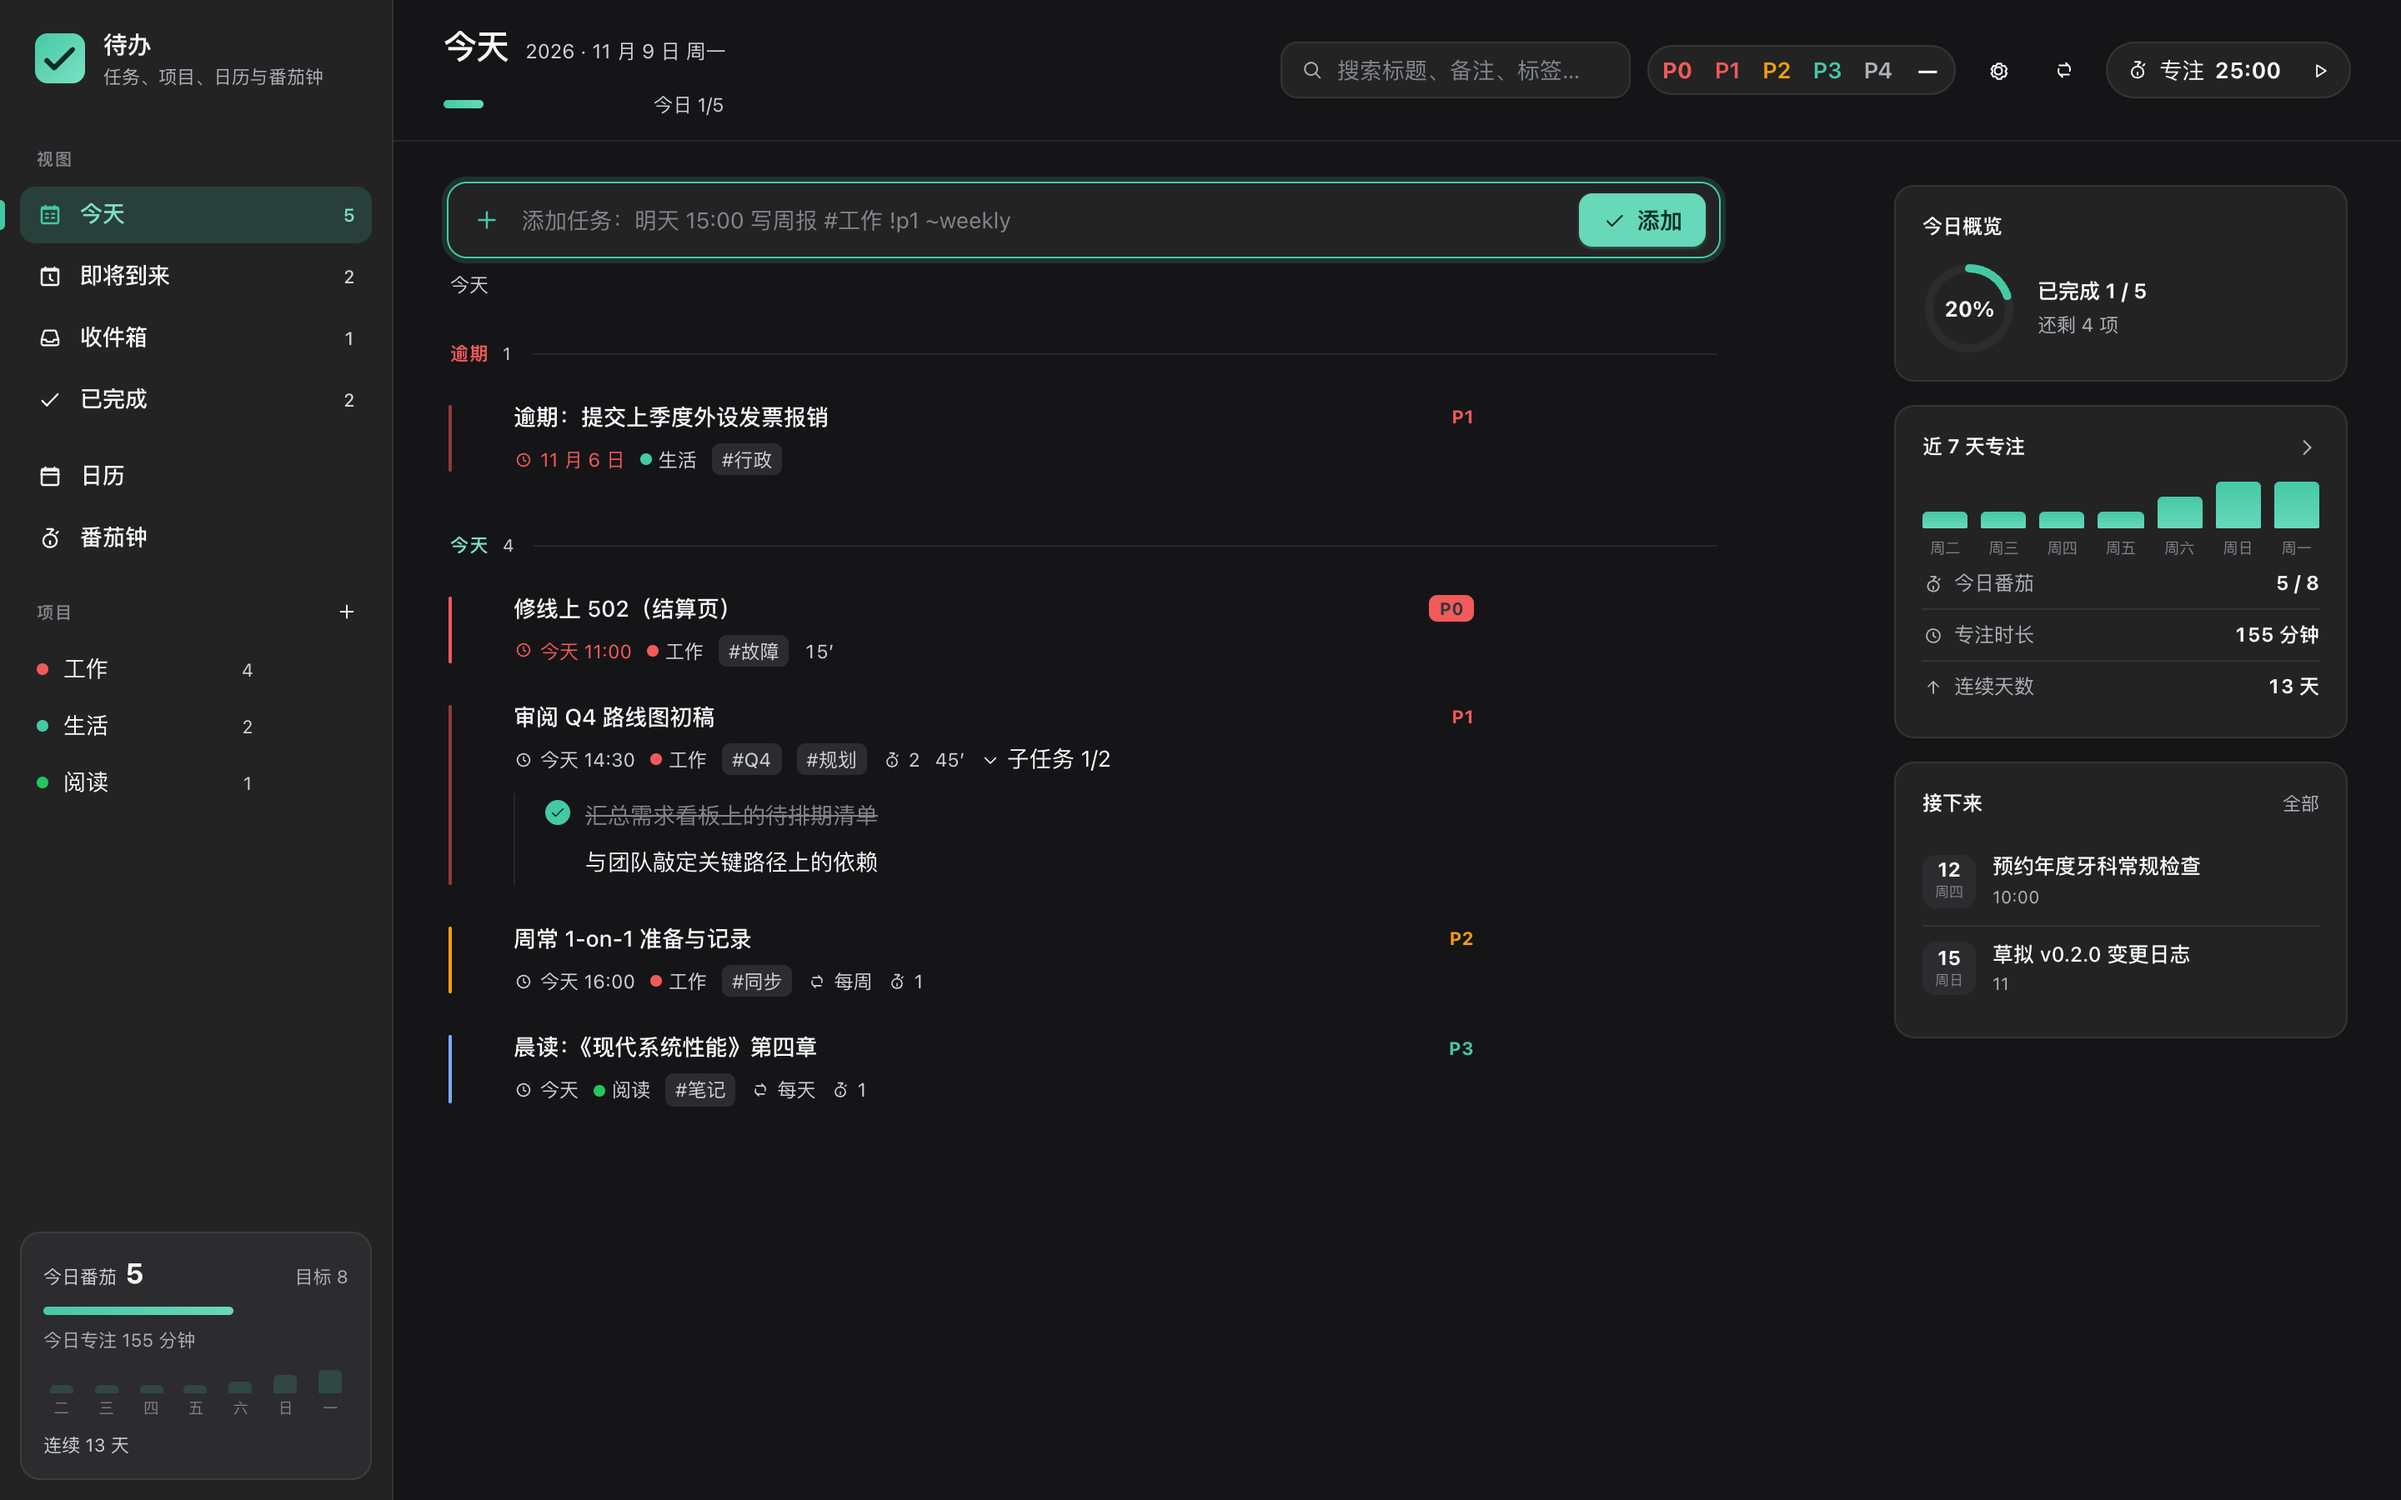
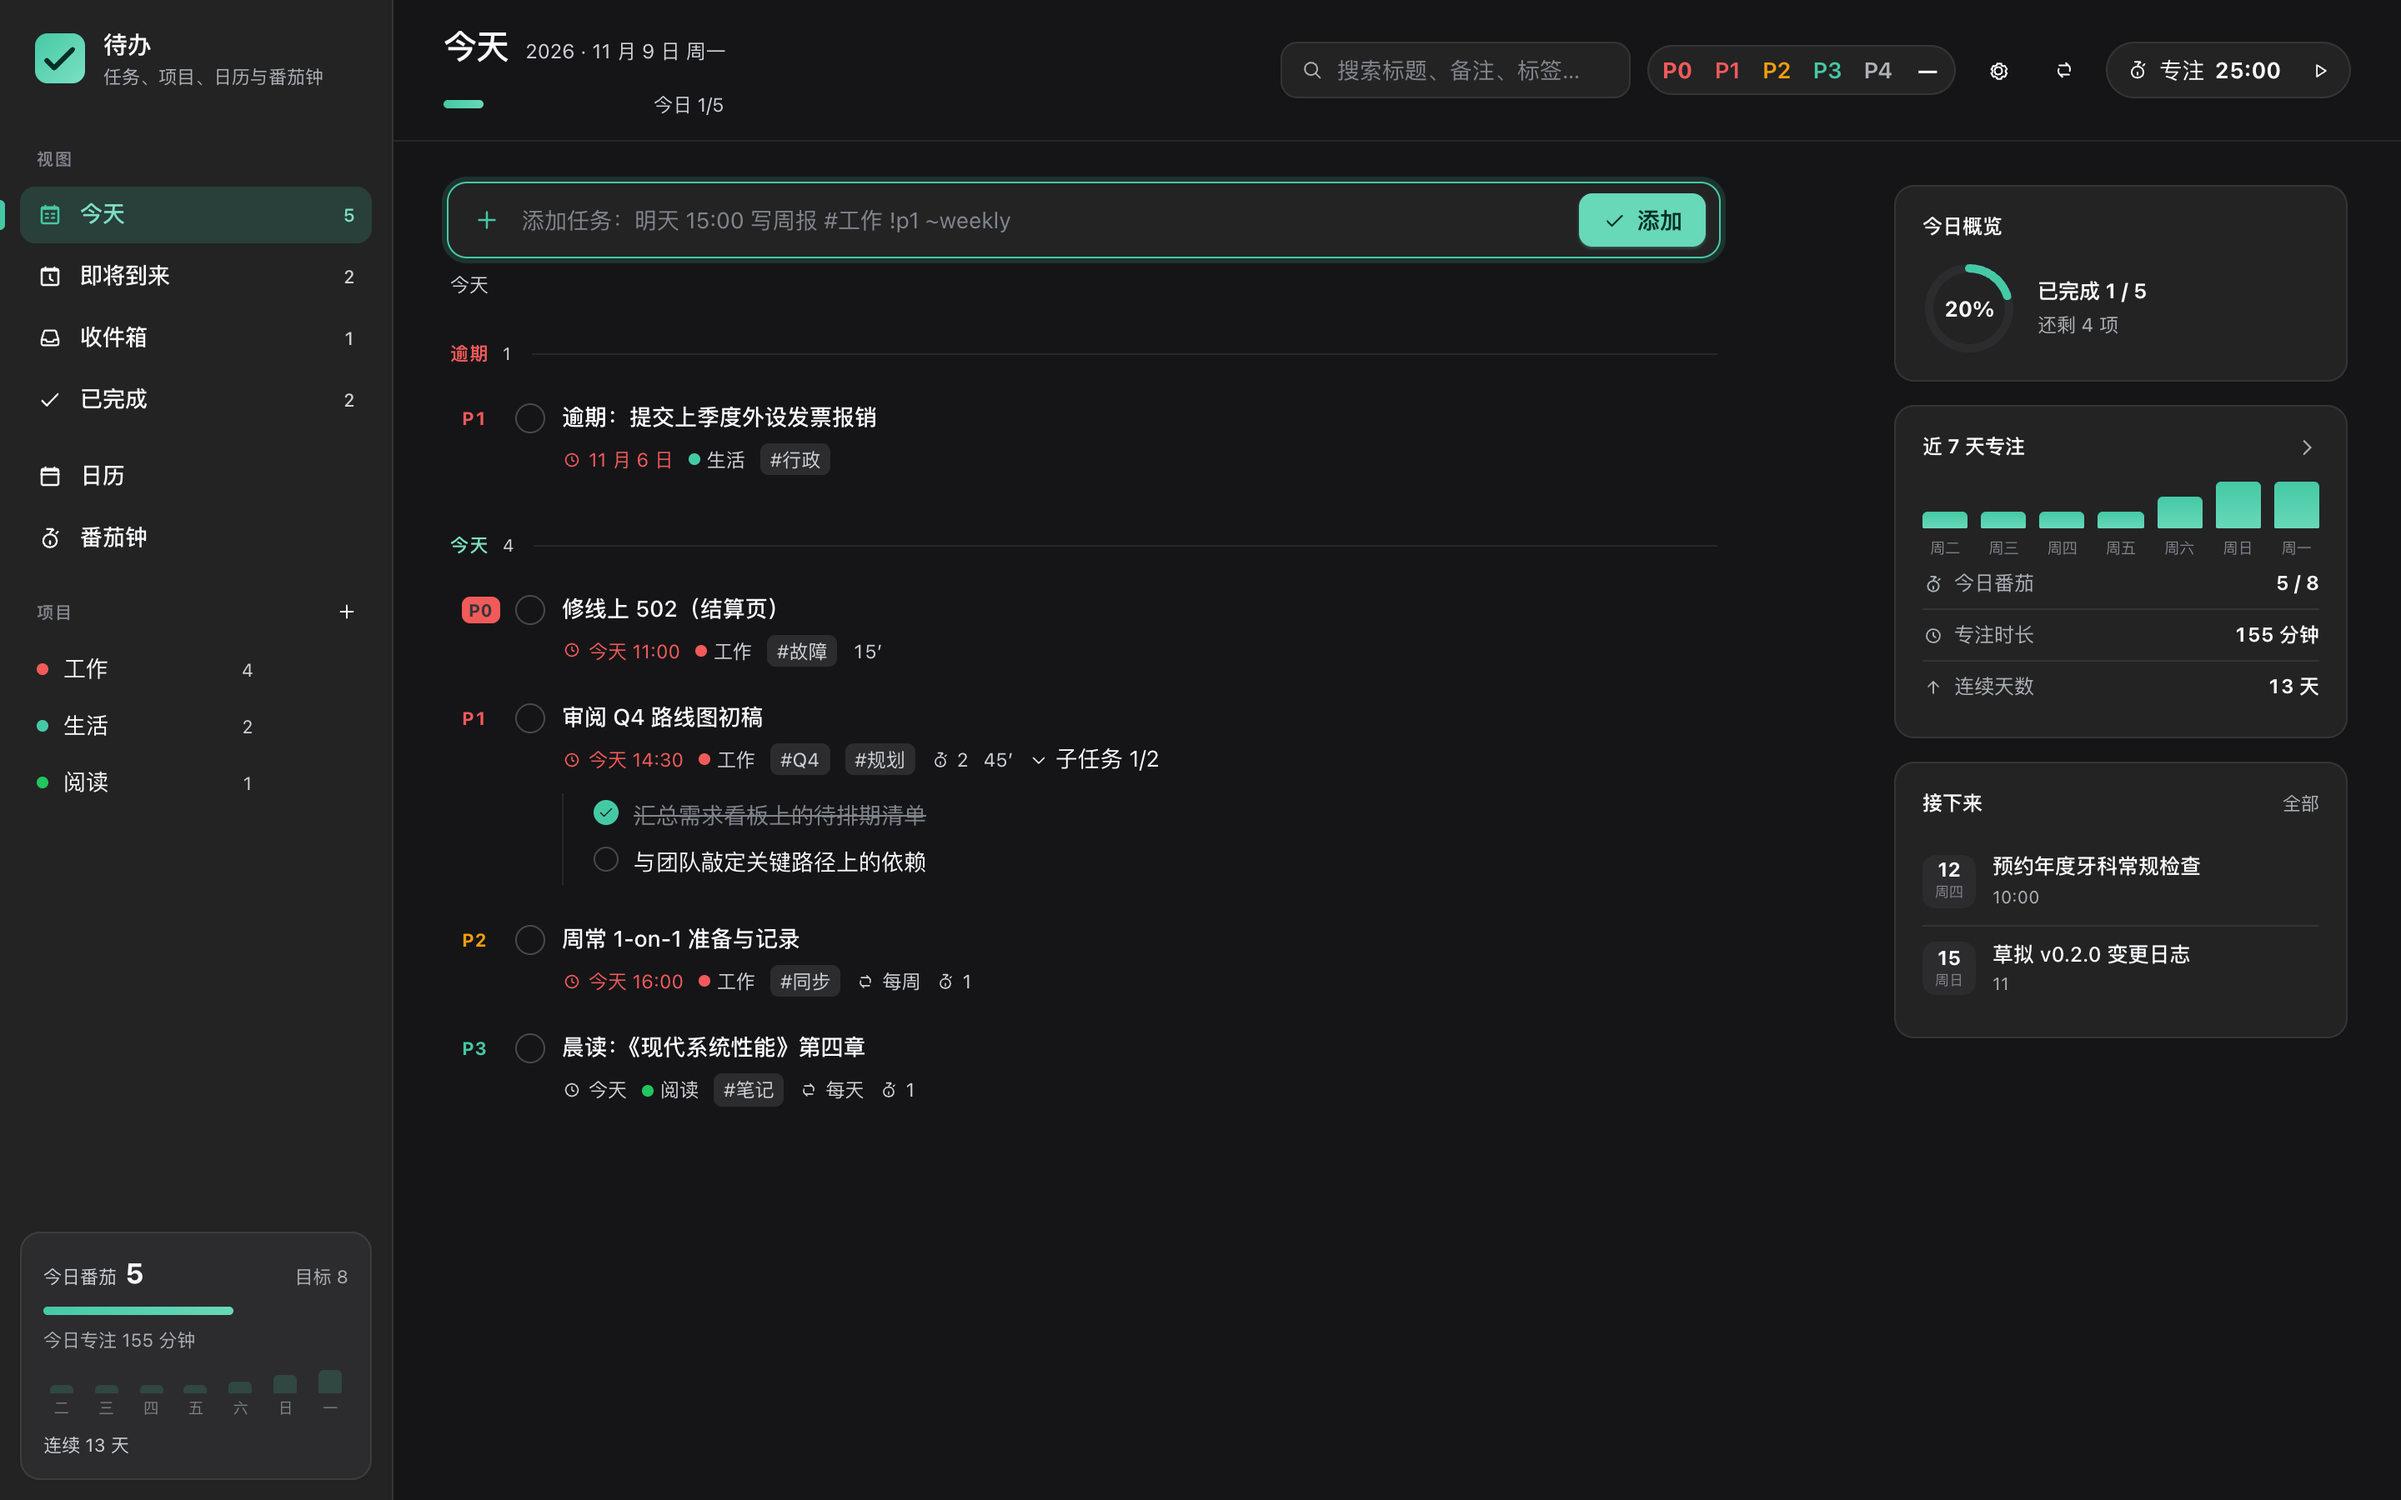
feat: move priority labels into a leading row column
- PriorityFlag replaces PriorityBar: P0 pill and P1-P4 text live in a fixed
  22px column before the checkbox; empty column keeps titles aligned
- drop the 2px priority bar and the right-aligned P label in the title line
- tabular-nums label with 4px P0 padding; row padding-left 8px, gap 10px
- add missing --dsw-alias-border-l3 tokens to the preview host styles so the
  checkbox ring renders in headless screenshots
- cover the new layout in client-i18n tests; regenerate screenshots; bump 0.2.19

diff --git a/lib/client.js b/lib/client.js
@@ -2625,14 +2625,20 @@ window.__ModuleLoader__.load({
       }, []);
     }
 
-    function PriorityBar(props) {
+    /** 左栏优先级列：与复选框同一列的固定 22px 槽，P0 用实心胶囊，P1–P4 用彩色文字。 */
+    function PriorityFlag(props) {
       const priority = props.priority;
-      if (priority === PRIORITY_NONE || priority === null || priority === undefined) return null;
-      return h("span", {
-        className: `todo-priority-bar todo-priority-p${priority}`,
-        "aria-hidden": "true",
-        title: t("task.priority", { n: priority }),
-      });
+      if (priority === PRIORITY_NONE || priority === null || priority === undefined) {
+        return h("span", { className: "todo-priority-col", "aria-hidden": "true" });
+      }
+      return h(
+        "span",
+        { className: "todo-priority-col" },
+        h("span", {
+          className: `todo-priority-label todo-priority-p${priority}`,
+          title: t("task.priority", { n: priority }),
+        }, `P${priority}`),
+      );
     }
 
     function ProjectDot(props) {
@@ -2774,7 +2780,6 @@ window.__ModuleLoader__.load({
       const project = projectOf(task, projects);
       const overdue = !task.done && isOverdue(task.due, today);
       const priority = priorityOf(task);
-      const hasPriority = priority !== PRIORITY_NONE;
       const pinned = task.id === ui.focusedTaskId;
 
       const meta = [];
@@ -2862,7 +2867,7 @@ window.__ModuleLoader__.load({
       return h(
         "li",
         { className: `todo-item${task.done ? " is-done" : ""}${pinned ? " is-focused" : ""}${completing ? " is-completing" : ""}` },
-        h(PriorityBar, { priority }),
+        h(PriorityFlag, { priority }),
         h("button", {
           type: "button",
           className: `todo-check${task.done ? " is-checked" : ""}`,
@@ -2882,7 +2887,6 @@ window.__ModuleLoader__.load({
               { type: "button", className: "todo-item-title", onClick: () => ui.onOpen(task), title: t("task.open") },
               task.title,
             ),
-            hasPriority ? h("span", { className: `todo-priority-label todo-priority-p${priority}` }, `P${priority}`) : null,
           ),
           meta.length ? h("div", { className: "todo-item-meta" }, meta) : null,
           progress && expanded
@@ -6190,15 +6194,10 @@ window.__ModuleLoader__.load({
   background: color-mix(in oklab, var(--todo-ok) 9%, transparent);
 }
 .todo-item.is-focused { border-color: color-mix(in oklab, var(--todo-accent) 40%, transparent); background: color-mix(in oklab, var(--todo-accent) 7%, transparent); }
-.todo-priority-bar {
-  position: absolute; left: 0; top: 8px; bottom: 8px; width: 3px;
-  border-radius: 999px; background: transparent;
+.todo-priority-col {
+  flex: none; width: 22px; padding-top: 2px;
+  display: flex; align-items: flex-start; justify-content: flex-start;
 }
-.todo-priority-p0.todo-priority-bar, .todo-priority-p0 .todo-priority-bar { width: 4px; background: var(--todo-danger); }
-.todo-priority-p1.todo-priority-bar, .todo-priority-p1 .todo-priority-bar { background: var(--todo-danger); }
-.todo-priority-p2.todo-priority-bar, .todo-priority-p2 .todo-priority-bar { background: var(--todo-warn); }
-.todo-priority-p3.todo-priority-bar, .todo-priority-p3 .todo-priority-bar { background: var(--todo-accent); }
-.todo-priority-p4.todo-priority-bar, .todo-priority-p4 .todo-priority-bar { background: var(--dsw-alias-label-caption); }
 .todo-check {
   display: grid; place-items: center; flex: none;
   width: 17px; height: 17px; margin-top: 2px; padding: 0;
@@ -6218,9 +6217,12 @@ window.__ModuleLoader__.load({
 .todo-item-title:hover { text-decoration: underline; text-underline-offset: 2px; }
 .todo-item.is-done .todo-item-title { color: var(--dsw-alias-label-tertiary); text-decoration: line-through; }
 .todo-item.is-done { opacity: 0.72; }
-.todo-priority-label { font-size: 10px; font-weight: 700; }
+.todo-priority-label {
+  font-size: 11px; font-weight: 700; letter-spacing: 0.01em;
+  line-height: 16px; font-variant-numeric: tabular-nums;
+}
 .todo-priority-label.todo-priority-p0 {
-  padding: 0 5px; border-radius: 999px; line-height: 15px;
+  padding: 0 4px; border-radius: 5px; line-height: 16px; font-size: 10.5px;
   background: var(--todo-danger); color: var(--dsw-alias-label-primary-inverted);
 }
 .todo-priority-label.todo-priority-p1 { color: var(--todo-danger); }
@@ -6919,17 +6921,11 @@ body[data-ds-dark-theme]:has(.todo-root[data-todo-theme="rose-warm-gray"]) { --d
 .todo-group-accent .todo-group-head h3 { color: var(--todo-accent-ink); }
 .todo-list { gap: 1px; }
 
-.todo-item { padding: 9px 10px; border-radius: 9px; gap: 11px; }
+.todo-item { padding: 9px 10px 9px 8px; border-radius: 9px; gap: 10px; }
 .todo-item.is-focused {
   background: var(--todo-accent-tint);
   border-color: color-mix(in oklab, var(--todo-accent) 34%, transparent);
 }
-.todo-priority-bar { left: 0; top: 11px; bottom: 11px; width: 2px; border-radius: 2px; }
-.todo-priority-p0.todo-priority-bar, .todo-priority-p0 .todo-priority-bar { width: 2px; background: var(--todo-danger); }
-.todo-priority-p1.todo-priority-bar, .todo-priority-p1 .todo-priority-bar { background: color-mix(in oklab, var(--todo-danger) 55%, transparent); }
-.todo-priority-p2.todo-priority-bar, .todo-priority-p2 .todo-priority-bar { background: var(--todo-warn); }
-.todo-priority-p3.todo-priority-bar, .todo-priority-p3 .todo-priority-bar { background: var(--todo-info); }
-.todo-priority-p4.todo-priority-bar, .todo-priority-p4 .todo-priority-bar { background: transparent; }
 
 .todo-check { width: 18px; height: 18px; margin-top: 1px; border-width: 1.5px; }
 .todo-check.is-checked { background: var(--todo-accent); border-color: var(--todo-accent); color: var(--dsw-alias-label-primary-inverted); }
@@ -6937,8 +6933,8 @@ body[data-ds-dark-theme]:has(.todo-root[data-todo-theme="rose-warm-gray"]) { --d
 .todo-item-main { gap: 5px; }
 .todo-item-title { font-size: 13.5px; font-weight: 500; }
 .todo-item.is-done { opacity: 0.7; }
-.todo-priority-label { font-size: 11px; font-weight: 700; letter-spacing: 0.01em; }
-.todo-priority-label.todo-priority-p0 { padding: 0 6px; border-radius: 5px; line-height: 16px; font-size: 10.5px; }
+.todo-priority-label { font-size: 11px; font-weight: 700; letter-spacing: 0.01em; line-height: 16px; font-variant-numeric: tabular-nums; }
+.todo-priority-label.todo-priority-p0 { padding: 0 4px; border-radius: 5px; line-height: 16px; font-size: 10.5px; }
 .todo-item-meta { gap: 9px; margin-top: 1px; }
 .todo-chip {
   background: transparent; padding: 0; height: auto; border-radius: 0;

diff --git a/test/client-i18n.test.js b/test/client-i18n.test.js
@@ -257,6 +257,26 @@ test("任务行播放按钮复用直接启动专注路径且不切换视图", ()
   assert.match(SOURCE, /onFocus: handleStartFocus/, "任务行播放按钮必须复用直接启动处理器");
 });
 
+test("优先级渲染在行首左栏，右栏不再放优先级标签", () => {
+  assert.match(SOURCE, /function PriorityFlag\(props\)/, "需要 PriorityFlag 左栏组件");
+  assert.match(SOURCE, /h\(PriorityFlag, \{ priority \}\)/, "任务行首位渲染 PriorityFlag");
+  // 无优先级时保留空列占位，标题不左右跳动
+  assert.match(
+    SOURCE,
+    /return h\("span", \{ className: "todo-priority-col", "aria-hidden": "true" \}\)/,
+    "无优先级必须渲染空 todo-priority-col 占位",
+  );
+  // 旧的右侧标签与 2px 色条彻底移除
+  assert.equal(SOURCE.includes("todo-priority-bar"), false, "旧版 todo-priority-bar 必须删除");
+  const taskRowStart = SOURCE.indexOf("function TaskRow");
+  const taskRowBody = SOURCE.slice(taskRowStart, taskRowStart + 9000);
+  assert.equal(taskRowBody.includes("todo-priority-label"), false, "标题行内不应再渲染优先级标签");
+  // 左栏列与标签样式
+  assert.match(SOURCE, /\.todo-priority-col \{\s*\n\s*flex: none; width: 22px;/, "左栏固定 22px 列宽");
+  assert.match(SOURCE, /font-variant-numeric: tabular-nums;\s*\n\}/, "标签数字必须等宽");
+  assert.match(SOURCE, /padding: 0 4px; border-radius: 5px; line-height: 16px; font-size: 10\.5px;/, "P0 胶囊用 4px 内边距");
+});
+
 test("番茄钟模式按钮垂直居中，且没有无用的沉浸模式入口", () => {
   assert.match(SOURCE, /\.todo-pom-mode \{\s*display: inline-flex; align-items: center; justify-content: center;/, "模式按钮必须垂直居中");
   assert.match(SOURCE, /height: 32px; padding: 0 14px;/, "模式按钮需要稳定的点击高度与水平内边距");

diff --git a/preview/index.html b/preview/index.html
@@ -38,6 +38,7 @@
         --dsw-alias-label-primary-inverted: var(--dsw-static-neutral-bluish-00);
         --dsw-alias-border-l1: rgba(15, 17, 21, 0.08);
         --dsw-alias-border-l2: rgba(15, 17, 21, 0.16);
+        --dsw-alias-border-l3: rgba(15, 17, 21, 0.24);
         --dsw-alias-brand-primary: #0f1115;
         --dsw-alias-brand-text: #0f1115;
         --dsw-alias-interactive-bg-hover: rgba(38, 49, 72, 0.06);
@@ -75,6 +76,7 @@
         --dsw-alias-label-primary-inverted: var(--dsw-static-neutral-bluish-800);
         --dsw-alias-border-l1: rgba(255, 255, 255, 0.08);
         --dsw-alias-border-l2: rgba(255, 255, 255, 0.14);
+        --dsw-alias-border-l3: rgba(255, 255, 255, 0.22);
         --dsw-alias-brand-primary: var(--dsw-static-neutral-bluish-50);
         --dsw-alias-brand-text: var(--dsw-static-neutral-bluish-50);
         --dsw-alias-interactive-bg-hover: rgba(255, 255, 255, 0.08);

diff --git a/README.md b/README.md
@@ -75,7 +75,7 @@ Use the top-right **Plugin settings → Appearance → Theme** control. It appli
 - **Natural-Language Quick Add**: Type `Tomorrow 3pm review roadmap #work !p1 ~weekly` to parse due dates, times, projects, priorities, and recurrence rules into structured fields automatically.
 - **Task Hierarchy**: One-level subtasks with progress tracking (`1/2 completed`), cascade completion, and cascade deletion with full undo support.
 - **Recurring Tasks**: Supports `daily`, `weekday` (skipping weekends), `weekly` (optionally on multiple weekdays such as Mon/Wed/Fri), `monthly` (same day, last day of month, or the Nth weekday), and `yearly`, with catch-up logic. Marking a recurring task complete archives the current occurrence and immediately spawns the next one with fresh subtasks.
-- **Priorities & Labels**: P0 (Critical, filled red), P1 (Urgent, red), P2 (High, orange), P3 (Medium, blue), P4 (Low, gray); quick add accepts `!p0`–`!p4`, plus arbitrary `#project` and `@tag` labels.
+- **Priorities & Labels**: P0 (Critical, filled red), P1 (Urgent, red), P2 (High, orange), P3 (Medium, blue), P4 (Low, gray) shown in a dedicated column at the row start; quick add accepts `!p0`–`!p4`, plus arbitrary `#project` and `@tag` labels.
 - **Calendar Grid**: Interactive monthly grid displaying task count dots; clicking any date filters tasks for that specific day.
 - **Search & Filter**: Real-time keyword search across titles and notes, combined with multi-select priority filters.
 - **Confident completion & editing**: The task drawer keeps autosave and adds an explicit Save button (`⌘/Ctrl+Enter`). Completing a task gets a focused confirmation with its title, a six-second Undo action, and the next date for recurring tasks; Today pairs a compact progress ring with completed/total counts.
